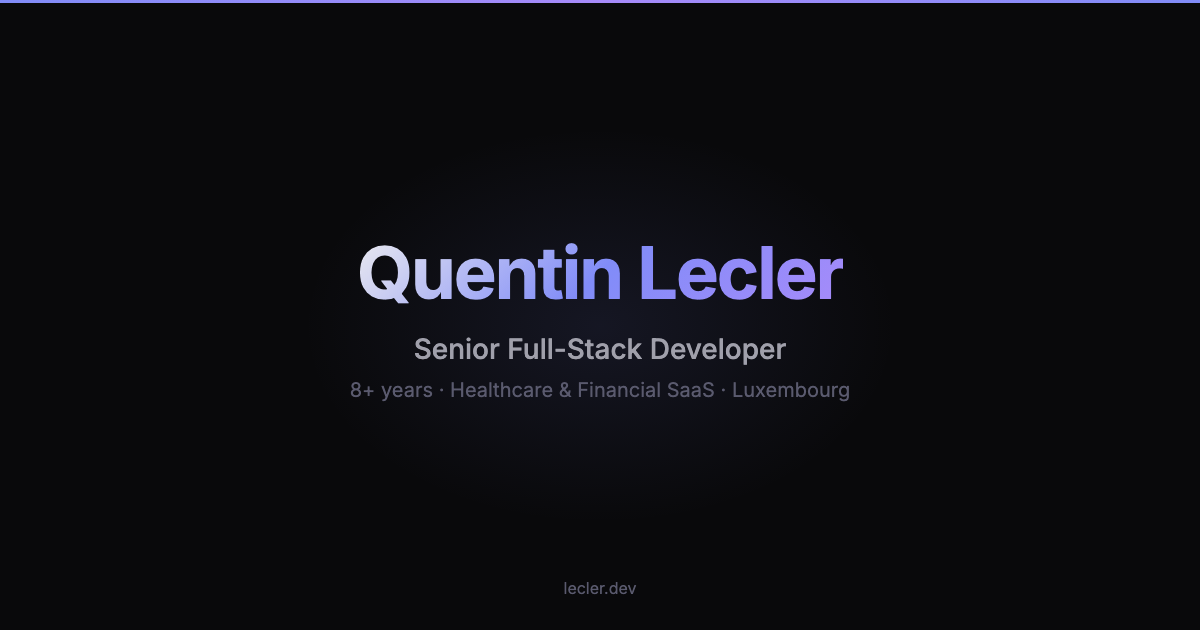
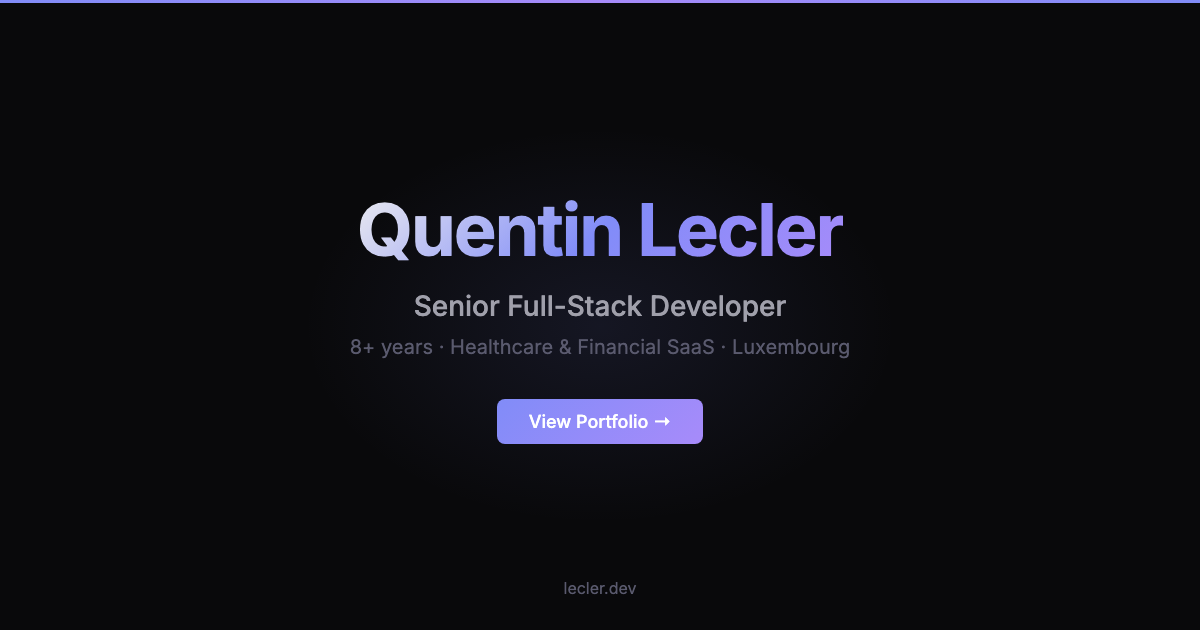
optimize OG meta tags and regenerate og.png with CTA
- Shorten title to 46 chars for better previews
- Extend description to 138 chars
- Add View Portfolio CTA to og.png

Changed region(s): [[0.2775, 0.3016, 0.7092, 0.573], [0.2775, 0.6032, 0.7092, 0.7238]]

diff --git a/index.html b/index.html
@@ -3,22 +3,22 @@
 <head>
   <meta charset="UTF-8">
   <meta name="viewport" content="width=device-width, initial-scale=1.0">
-  <title>Quentin Lecler — Senior Full-Stack Developer | Healthcare & Financial SaaS</title>
+  <title>Quentin Lecler — Senior Full-Stack Developer</title>
   <meta name="description" content="Senior Full-Stack Developer specializing in Healthcare SaaS & Financial SaaS. Laravel, Vue.js, React, TypeScript, .NET.">
   <meta name="author" content="Quentin Lecler">
   <meta name="keywords" content="Full-Stack Developer, Healthcare SaaS, Financial SaaS, Laravel, Vue.js, React, TypeScript, Luxembourg, PHP, Node.js">
 
   <!-- Open Graph -->
-  <meta property="og:title" content="Quentin Lecler — Senior Full-Stack Developer | Healthcare & Financial SaaS">
-  <meta property="og:description" content="Senior Full-Stack Developer specializing in Healthcare & Financial SaaS. Laravel, Vue.js, React, TypeScript.">
+  <meta property="og:title" content="Quentin Lecler — Senior Full-Stack Developer">
+  <meta property="og:description" content="8+ years building mission-critical SaaS for healthcare and finance in Luxembourg. Laravel, Vue.js, React, TypeScript, Node.js, C# / .NET.">
   <meta property="og:type" content="website">
   <meta property="og:url" content="https://lecler.dev">
   <meta property="og:image" content="https://lecler.dev/og.png">
 
   <!-- Twitter -->
   <meta name="twitter:card" content="summary_large_image">
-  <meta name="twitter:title" content="Quentin Lecler — Senior Full-Stack Developer | Healthcare & Financial SaaS">
-  <meta name="twitter:description" content="Senior Full-Stack Developer specializing in Healthcare & Financial SaaS. Laravel, Vue.js, React, TypeScript.">
+  <meta name="twitter:title" content="Quentin Lecler — Senior Full-Stack Developer">
+  <meta name="twitter:description" content="8+ years building mission-critical SaaS for healthcare and finance in Luxembourg. Laravel, Vue.js, React, TypeScript, Node.js, C# / .NET.">
   <meta name="twitter:image" content="https://lecler.dev/og.png">
 
   <!-- Favicon -->
